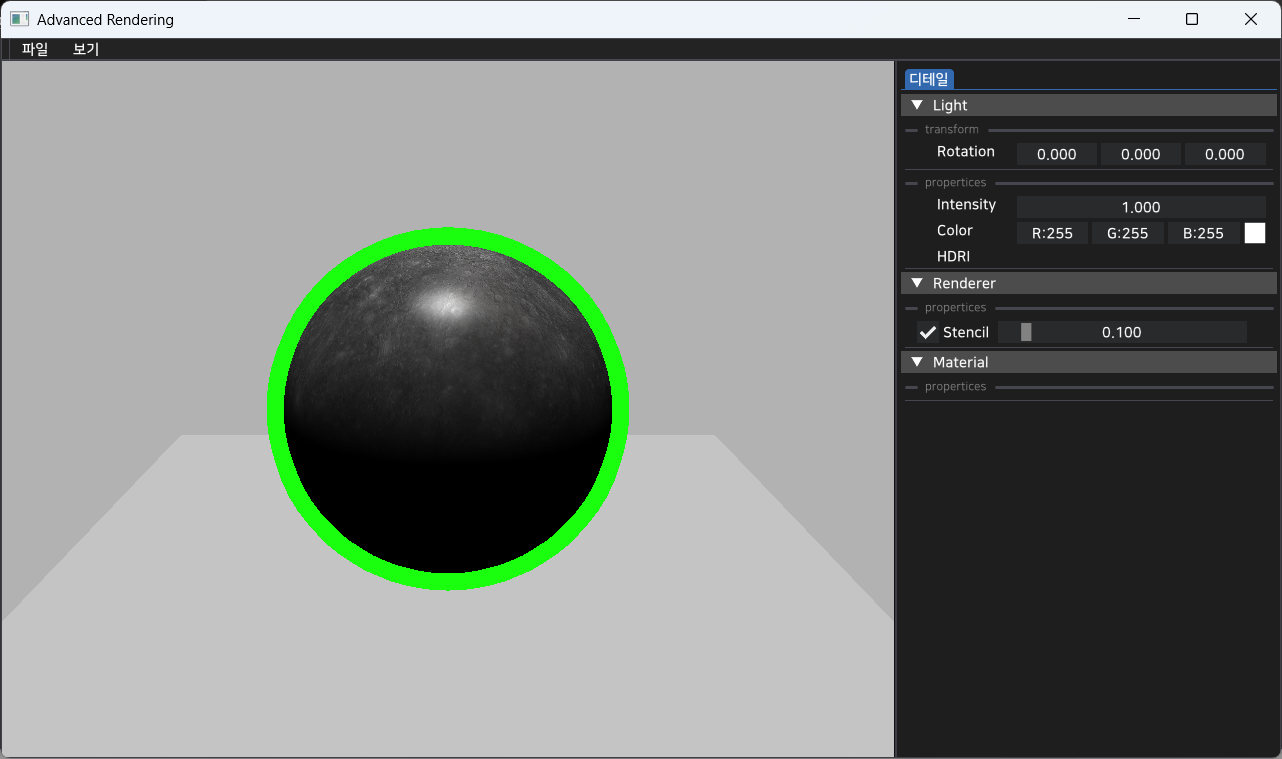
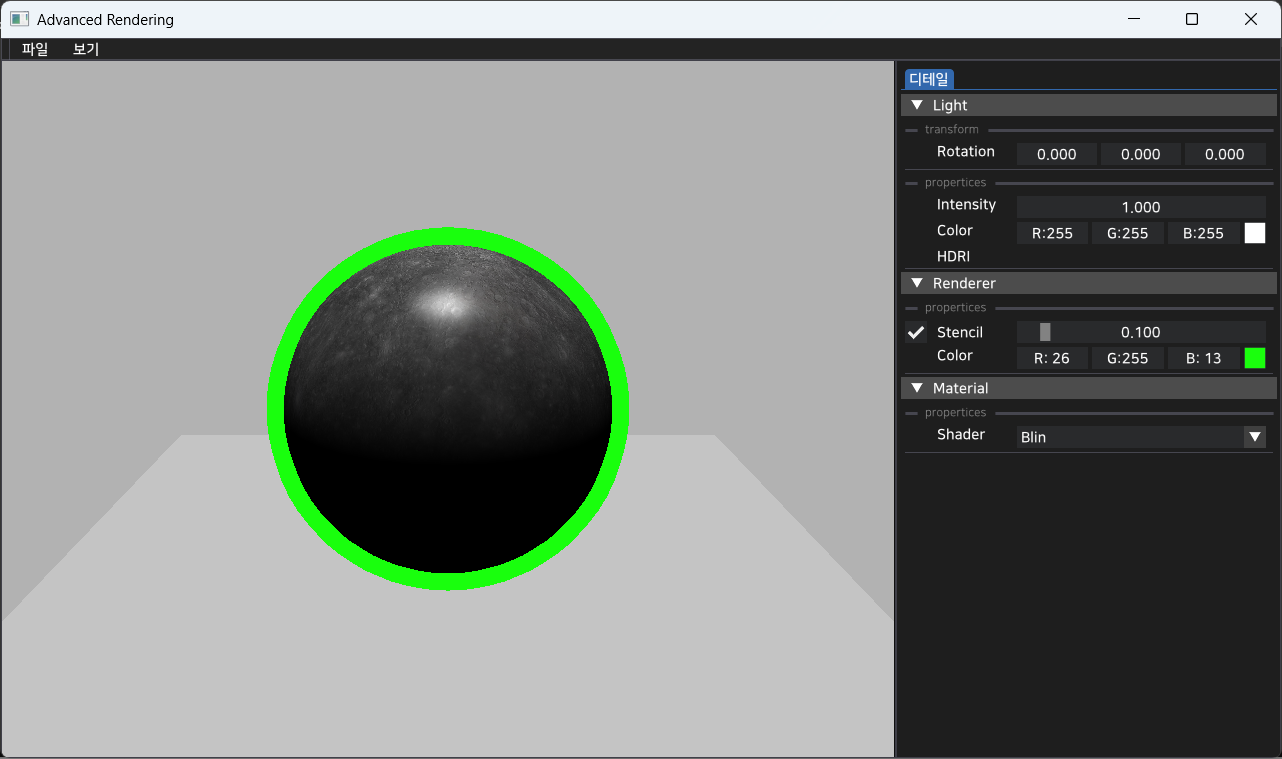
alpha blending 추가

Changed region(s): [[0.6864, 0.4242, 0.9984, 0.6061], [0.9984, 0.9697, 1.0, 1.0]]

diff --git a/src/resource/private/resourceManager.cpp b/src/resource/private/resourceManager.cpp
@@ -13,18 +13,40 @@ ResourceManager::ResourceManager()
     meshes.emplace("cone", std::move(coneMesh));
     meshes.emplace("cylinder", std::move(cylinderMesh));
     meshes.emplace("plane", std::move(planeMesh));
-    //create texture
+    //create mercury texture
     const std::string texPath = "/textures/mercury.jpg";
     auto mercuryTexture = std::make_unique<OpenGLTexture>(texPath);
     ITexture* ptrTexture = mercuryTexture.get();
     textures.emplace("mercury", std::move(mercuryTexture));
+    //create grass texture
+    const std::string grasstexPath = "/textures/grass.png";
+    auto grassTexture = std::make_unique<OpenGLTexture>(grasstexPath);
+    ITexture* ptrgrassTexture = grassTexture.get();
+    textures.emplace("grass", std::move(grassTexture));
+    //create window texture
+    const std::string windowtexPath = "/textures/blending_transparent_window.png";
+    auto windowTexture = std::make_unique<OpenGLTexture>(windowtexPath);
+    ITexture* ptrwindowTexture = windowTexture.get();
+    textures.emplace("blending_transparent_window", std::move(windowTexture));
+    //create container texture
+    const std::string containerPath = "/textures/container2.png";
+    auto containerTexture = std::make_unique<OpenGLTexture>(containerPath);
+    ITexture* ptrcontainerTexture = containerTexture.get();
+    textures.emplace("container", std::move(containerTexture));
+    //create container spec texture
+    const std::string containerspecPath = "/textures/container2_specular.png";
+    auto containerspecTexture = std::make_unique<OpenGLTexture>(containerspecPath);
+    ITexture* ptrcontainerspecTexture = containerspecTexture.get();
+    textures.emplace("containerspec", std::move(containerspecTexture));
+ 
     //create shader
     const std::string vsPath = "/shader/standard.vert";
     const std::string fsPath = "/shader/standard.frag";
+    //create standard shader
     auto standardShader = std::make_unique<OpenGLShader>(vsPath, fsPath);
     IShader* ptrShader = standardShader.get();
     shaders.emplace("standardShader", std::move(standardShader));
-    //create material
+    //create standard material
     auto standardMaterial = std::make_unique<OpenGLMaterial>(ptrShader);
     IMaterial* ptrMaterial = standardMaterial.get();
     materials.emplace("standardMaterial", std::move(standardMaterial));
@@ -33,4 +55,62 @@ ResourceManager::ResourceManager()
     //create planeMaterial
     auto planeMaterial = std::make_unique<OpenGLMaterial>(ptrShader);
     materials.emplace("planeMaterial", std::move(planeMaterial));
+    //create grassMaterial
+    auto grassMaterial = std::make_unique<OpenGLMaterial>(ptrShader);
+    IMaterial* ptrgrassMaterial = grassMaterial.get();
+    materials.emplace("grassMaterial", std::move(grassMaterial));
+    mat = static_cast<OpenGLMaterial*>(ptrgrassMaterial);
+    mat->AddTexture(ptrgrassTexture, 1);
+    mat->GetParameter()->type = MaterialType::Transparent;
+    //create windowMaterial
+    auto windowMaterial = std::make_unique<OpenGLMaterial>(ptrShader);
+    IMaterial* ptrwindowMaterial = windowMaterial.get();
+    materials.emplace("windowMaterial", std::move(windowMaterial));
+    mat = static_cast<OpenGLMaterial*>(ptrwindowMaterial);
+    mat->AddTexture(ptrwindowTexture, 1);
+    mat->GetParameter()->type = MaterialType::Transparent;
+}
+
+IMesh* ResourceManager::FindMesh(const std::string name)
+{
+    auto it = meshes.find(name);
+    IMesh* result = nullptr;
+    if(it != meshes.end())
+    {
+        result = it->second.get();
+    }
+    return result;
+}
+
+IShader* ResourceManager::FindShader(const std::string name)
+{
+    auto it = shaders.find(name);
+    IShader* result = nullptr;
+    if(it != shaders.end())
+    {
+        result = it->second.get();
+    }
+    return result;
+}
+
+ITexture* ResourceManager::FindTexture(const std::string name)
+{
+    auto it = textures.find(name);
+    ITexture* result = nullptr;
+    if(it != textures.end())
+    {
+        result = it->second.get();
+    }
+    return result;
+}
+
+IMaterial* ResourceManager::FindMaterial(const std::string name)
+{
+    auto it = materials.find(name);
+    IMaterial* result = nullptr;
+    if(it != materials.end())
+    {
+        result = it->second.get();
+    }
+    return result;
 }

diff --git a/src/core/private/editor.cpp b/src/core/private/editor.cpp
@@ -405,11 +405,19 @@ void Editor::CreateRightPanel()
                 OpenGLRenderer* renderer = static_cast<OpenGLRenderer*>(Context::GetContext()->renderer);
                 IMaterial* material = Context::GetContext()->world->GetSelectedActor()->GetComponent<MeshComponent>()->GetMaterial();
                 MaterialParameter* parameter = static_cast<OpenGLMaterial*>(material)->GetParameter();
-                ImGui::SetCursorPosX(20.0f);                
-                ImGui::Checkbox("Stencil", renderer->GetStencil());
+                ImGui::Checkbox("##Stencil", renderer->GetStencil());
                 ImGui::SameLine();
+                ImGui::SetCursorPosX(40.0f);
+                ImGui::Text("Stencil");
+                ImGui::SameLine(120.0f, 0.0f);
                 if(*renderer->GetStencil())
+                {
                     ImGui::SliderFloat("##stencilOutline", &parameter->stencilOutline, 0.01f, 1.0f);
+                    ImGui::SetCursorPosX(40.0f);
+                    ImGui::Text("Color");
+                    ImGui::SameLine(120.0f, 0.0f);
+                    ImGui::ColorEdit3("##stencilColor", glm::value_ptr(parameter->stencilColor));
+                }
                 else
                 {
                     ImGui::BeginDisabled();
@@ -425,11 +433,50 @@ void Editor::CreateRightPanel()
                 ImGui::SeparatorText("propertices");
                 ImGui::PopFont();
                 ImGui::PopStyleColor();
-                
+
+                ImGui::SetCursorPosX(40.0f);
+                ImGui::Text("Shader");
+                ImGui::SameLine(120.0f, 0.0f);
+                const char* shaderItems[] = { "Blinn", "Phong"};
+                static int shader_item_selected_idx = 0;
+                const char* shader_combo_preview_value = shaderItems[shader_item_selected_idx];
+                if(ImGui::BeginCombo("##shaderCombo", shader_combo_preview_value))
+                {
+                    for (int n = 0; n < IM_ARRAYSIZE(shaderItems); n++)
+                    {
+                        const bool is_selected = (shader_item_selected_idx == n);
+                        if (ImGui::Selectable(shaderItems[n], is_selected))
+                            shader_item_selected_idx = n;
+                        if (is_selected)
+                            ImGui::SetItemDefaultFocus();
+                    }
+                    ImGui::EndCombo();
+                }
+                ImGui::SetCursorPosX(40.0f);
+                ImGui::Text("Type");
+                ImGui::SameLine(120.0f, 0.0f);
+                const char* typeItems[] = { "Plastic", "Transparent"};
+                static int type_item_selected_idx = 0;
+                const char* type_combo_preview_value = typeItems[type_item_selected_idx];
+                if(ImGui::BeginCombo("##typeCombo", type_combo_preview_value))
+                {
+                    for (int n = 0; n < IM_ARRAYSIZE(typeItems); n++)
+                    {
+                        const bool is_selected = (type_item_selected_idx == n);
+                        if (ImGui::Selectable(typeItems[n], is_selected))
+                            type_item_selected_idx = n;
+                        if (is_selected)
+                            ImGui::SetItemDefaultFocus();
+                    }
+                    ImGui::EndCombo();
+                }
                 ImGui::Separator();
+                ImGui::PushStyleColor(ImGuiCol_Text, IM_COL32(255, 255, 255, 120));
+                ImGui::PushFont(nanumSquare.reqular, 13.0f);
+                ImGui::SeparatorText("parameter");
+                ImGui::PopFont();
+                ImGui::PopStyleColor();
             }
-
-
             ImGui::EndTabItem();
         }
         ImGui::EndTabBar();

diff --git a/src/core/private/application.cpp b/src/core/private/application.cpp
@@ -5,6 +5,9 @@
 #include "lightComponent.hpp"
 #include "actor.hpp"
 
+#include <random>
+#include <iomanip>
+
 Application::Application()
 {
     if(window.Init())
@@ -61,6 +64,43 @@ void Application::Init()
     {
         auto actor = world->CreateActor("Plane Actor");
         actor->AddComponent<MeshComponent>(it->second.get(), planeMaterial);
+    }
+    //grass Test
+    auto grassMaterial = resourceManager->FindMaterial("grassMaterial");
+    for(size_t i = 0; i< 50; i++)
+    {
+        it = resourceManager->GetMeshes().find("plane");
+        if(it != resourceManager->GetMeshes().end())
+        {
+            auto actor = world->CreateActor("Plane Actor");
+            actor->AddComponent<MeshComponent>(it->second.get(), grassMaterial);
+            actor->GetComponent<MeshComponent>()->SetScale(glm::vec3(0.25f));
+            actor->GetComponent<MeshComponent>()->SetRotation(glm::vec3(90.0f,0.0f,180.0f));
+            double random_x = static_cast<double>(rand()) / RAND_MAX;
+            double x = (random_x * 10.0f) - 5.0f;
+            double random_z = static_cast<double>(rand()) / RAND_MAX;
+            double z = (random_z * 10.0f) - 5.0f;
+            actor->GetComponent<MeshComponent>()->SetPosition(glm::vec3(x, 2.0f, z));
+        }
+    }
+    //window Test
+    auto windowMaterial = resourceManager->FindMaterial("windowMaterial");
+    for(size_t i = 0; i< 10; i++)
+    {
+        it = resourceManager->GetMeshes().find("plane");
+        if(it != resourceManager->GetMeshes().end())
+        {
+            auto actor = world->CreateActor("Plane Actor");
+            actor->AddComponent<MeshComponent>(it->second.get(), windowMaterial);
+            actor->GetComponent<MeshComponent>()->SetScale(glm::vec3(0.2f));
+            actor->GetComponent<MeshComponent>()->SetRotation(glm::vec3(90.0f,0.0f,180.0f));
+            
+            double random_x = static_cast<double>(rand()) / RAND_MAX;
+            double x = (random_x * 8.0f) - 4.0f;
+            double random_z = static_cast<double>(rand()) / RAND_MAX;
+            double z = (random_z * 8.0f) - 4.0f;
+            actor->GetComponent<MeshComponent>()->SetPosition(glm::vec3(x, 2.5f, z));
+        }
     }
     Loop();
 }

diff --git a/src/renderer/private/renderer.cpp b/src/renderer/private/renderer.cpp
@@ -5,6 +5,7 @@
 #include "resourceManager.hpp"
 #include "material.hpp"
 #include "meshComponent.hpp"
+#include "cameraComponent.hpp"
 
 OpenGLRenderer::OpenGLRenderer()
 {
@@ -19,7 +20,6 @@ OpenGLRenderer::OpenGLRenderer()
     glEnable(GL_BLEND);
     glBlendFunc(GL_SRC_ALPHA, GL_ONE_MINUS_SRC_ALPHA);
     glEnable(GL_MULTISAMPLE);
-    glEnable(GL_BLEND);
     CreateBuffer(800, 600);
 }
 
@@ -80,8 +80,24 @@ void OpenGLRenderer::Draw()
 {
     glBindFramebuffer(GL_FRAMEBUFFER, fbo);
     Clear();
+    std::map<float, Actor*> alphaSorted;
+    //colorRender
     for(auto& actor:Context::GetContext()->world->GetActors())
     {
+        MeshComponent* meshComponent = actor->GetComponent<MeshComponent>();
+        if (meshComponent != nullptr)
+        {
+            //alphaActor Check
+            OpenGLMaterial* material = static_cast<OpenGLMaterial*>(meshComponent->GetMaterial());
+            glm::vec3 cameraPos = Context::GetContext()->world->GetCurrentCamera()->GetComponent<CameraComponent>()->GetTransform().position;
+            if(material->GetParameter()->type == 1)
+            {
+                float distance = glm::length(cameraPos - meshComponent->GetTransform().position);
+                alphaSorted[distance] = actor.get();
+                continue;
+            }
+        }
+        //DrawMesh
         if(actor.get() == Context::GetContext()->world->GetSelectedActor())
         {
             glStencilFunc(GL_ALWAYS, 1, 0xFF);
@@ -93,6 +109,11 @@ void OpenGLRenderer::Draw()
             glStencilMask(0x00);
             actor->Draw();//plane
         }
+    }
+    //alphaRender
+    for(std::map<float, Actor*>::reverse_iterator it = alphaSorted.rbegin(); it !=alphaSorted.rend(); ++it)
+    {
+        it->second->Draw();
     }
     //stencilRender
     if (Context::GetContext()->world->GetSelectedActor() != nullptr && bStencil)

diff --git a/src/resource/public/resourceManager.hpp b/src/resource/public/resourceManager.hpp
@@ -13,6 +13,10 @@ class ResourceManager
         ResourceManager();
         const std::map<std::string, std::unique_ptr<IMesh>>& GetMeshes()const{return meshes;}
         const std::map<std::string, std::unique_ptr<IMaterial>>& GetMaterials()const{return materials;}
+        IMesh* FindMesh(const std::string name);
+        IShader* FindShader(const std::string name);
+        ITexture* FindTexture(const std::string name);
+        IMaterial* FindMaterial(const std::string name);
     private:
         std::map<std::string, std::unique_ptr<IMesh>> meshes;
         std::map<std::string, std::unique_ptr<IShader>> shaders;

diff --git a/src/renderer/private/texture.cpp b/src/renderer/private/texture.cpp
@@ -25,7 +25,10 @@ OpenGLTexture::OpenGLTexture(const std::string& path)
             case 1:format = GL_RED;break;
             case 2:format = GL_RG;break;
             case 3:format = GL_RGB;break;
-            case 4:format = GL_RGBA;break;
+            case 4:format = GL_RGBA;
+            glTexParameteri(GL_TEXTURE_2D, GL_TEXTURE_WRAP_S, GL_CLAMP_TO_EDGE);
+            glTexParameteri(GL_TEXTURE_2D, GL_TEXTURE_WRAP_T, GL_CLAMP_TO_EDGE);
+            break;
             default:stbi_image_free(data);
         }
         glTexImage2D(GL_TEXTURE_2D, 0, format, width, height, 0, format, GL_UNSIGNED_BYTE, data);

diff --git a/src/renderer/private/material.cpp b/src/renderer/private/material.cpp
@@ -19,6 +19,8 @@ void OpenGLMaterial::Draw(MeshComponent* component)
     shader->SetMatrix4("mView", camComponent->GetViewMatrix());
     shader->SetMatrix4("mProjection", camComponent->GetProjectionMatrix());
     shader->SetVector3("cameraPosition",camComponent->GetTransform().position);
+    //parameter
+    shader->SetInt("type", parameter.type);
     shader->SetVector3("diffuseColor", parameter.diffuseColor);
     shader->SetFloat("lightIntensity",*lightComponent->GetIntensity());
     shader->SetVector3("lightColor",glm::make_vec3(lightComponent->GetColor()));

diff --git a/src/renderer/public/shader.hpp b/src/renderer/public/shader.hpp
@@ -21,6 +21,7 @@ class OpenGLShader:public IShader
         void SetBool(const std::string& name, bool value) const;
         void SetInt(const std::string& name, int value) const;
         void SetFloat(const std::string& name, float value) const;
+        void SetDouble(const std::string& name, int value) const;
         void SetVector3(const std::string& name, const glm::vec3& value) const;
         void SetMatrix4(const std::string& name, const glm::mat4& value) const;
         GLint GetLocation(const std::string& name) const;

diff --git a/src/renderer/private/shader.cpp b/src/renderer/private/shader.cpp
@@ -77,6 +77,11 @@ void OpenGLShader::SetFloat(const std::string& name, float value) const
 
 void OpenGLShader::SetInt(const std::string& name, int value) const
 {
+    glUniform1i(GetLocation(name), value);
+}
+
+void OpenGLShader::SetDouble(const std::string& name, int value) const
+{
     glUniform1d(GetLocation(name), value);
 }
 

diff --git a/src/renderer/public/material.hpp b/src/renderer/public/material.hpp
@@ -7,11 +7,14 @@ class MeshComponent;
 
 enum MaterialType
 {
-    Plastic
+    Plastic = 0,
+    Transparent = 1
 };
 
 struct MaterialParameter
 {
+    //type
+    MaterialType type = MaterialType::Plastic;
     //color
     glm::vec3 ambientColor{0.0f};
     glm::vec3 diffuseColor{0.77f};
